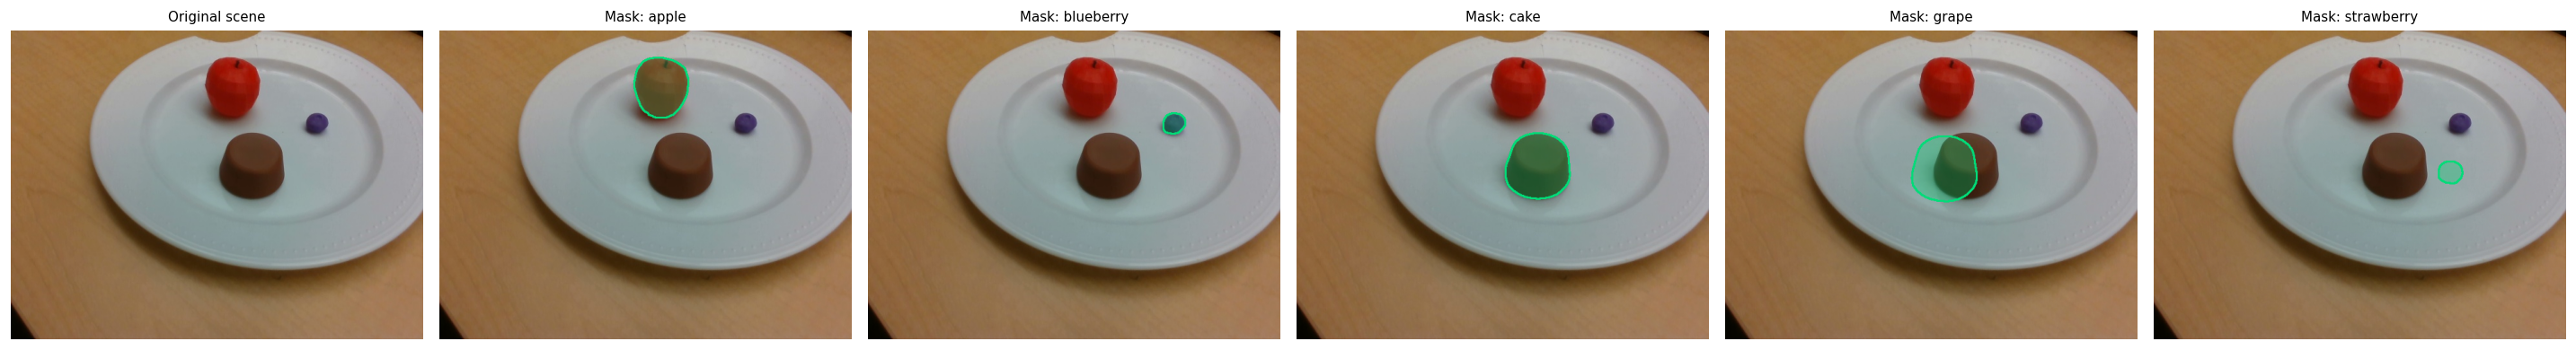
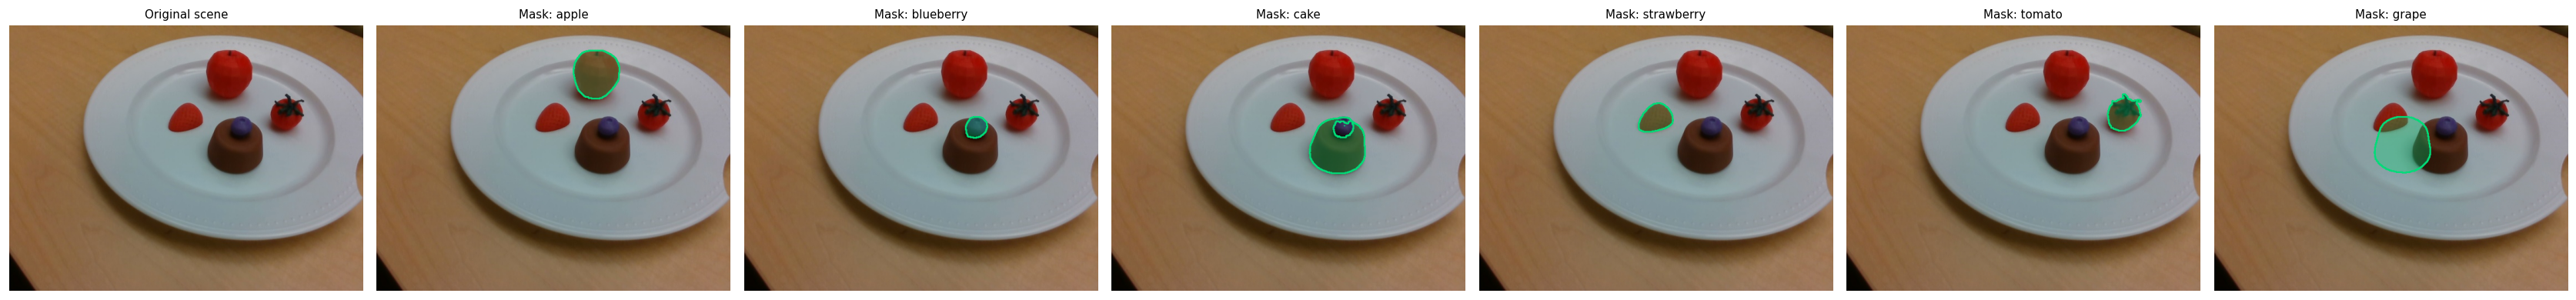
more progress

diff --git a/project-report-site/index.html b/project-report-site/index.html
@@ -139,7 +139,7 @@
 </section>
 
 <!-- ============================================================ GALLERY (visual strip) -->
-<!-- DELETE SECTION, INSTEAD INTEGRATE INTO ARCHITECTURE-->
+<!-- DELETE SECTION, INSTEAD INTEGRATE INTO ARCHITECTURE???-->
 <section id="gallery" class="section section-tint">
   <div class="section-head">
     <h2><span class="num">2</span> Captures from the Orbit</h2>
@@ -504,26 +504,61 @@
       <img src="assets/scene_poses.png" alt="3D scene plot of estimated object positions." />
       <figcaption>Reconstructed object centroids in <code>base_link</code>.</figcaption>
     </figure>
-    <figure class="figure">
-      <img src="assets/masks_debug.png" alt="Per-view mask debug visualization." />
-      <figcaption>Per-view SAM2 mask debug strip across the orbit.</figcaption>
+
+    <figure class="hero-figure carousel"aria-roledescription="carousel"aria-label="SAM2 mask debug results">
+      <div class="carousel-track">
+        <div class="carousel-slide is-active">
+          <div class="strip s1"></div>
+        </div>
+        <div class="carousel-slide">
+          <div class="strip s2"></div>
+        </div>
+        <div class="carousel-slide">
+          <div class="strip s3"></div>
+        </div>
+        <div class="carousel-slide">
+          <div class="strip s4"></div>
+        </div>
+        <div class="carousel-slide">
+          <div class="strip s5"></div>
+        </div>
+        <div class="carousel-slide">
+          <div class="strip s6"></div>
+        </div>
+      </div>
+
+      <button class="carousel-btn carousel-prev"aria-label="Previous slide">‹</button>
+      <button class="carousel-btn carousel-next"aria-label="Next slide">›</button>
+
+      <div class="carousel-dots"role="tablist"aria-label="Carousel pagination">
+        <button class="carousel-dot is-active" role="tab" data-i="0"></button>
+        <button class="carousel-dot" role="tab" data-i="1"></button>
+        <button class="carousel-dot" role="tab" data-i="2"></button>
+        <button class="carousel-dot" role="tab" data-i="3"></button>
+        <button class="carousel-dot" role="tab" data-i="4"></button>
+        <button class="carousel-dot" role="tab" data-i="5"></button>
+      </div>
+      <!--<figcaption>SAM2 masking debug strip.</figcaption> this doesn't work as intended-->
     </figure>
   </div>
+  <div class="two-col">
+    <figure class="figure">
+        <span class="ph-tag">VIDEO DEMO</span>
+        <p>End-to-end demo run (orbit → segmentation → pick sequence).</p>
+        <iframe
+          src="https://drive.google.com/file/d/1ZvJWHgZEgT7H33ZIcDSmg-mxVdF9k3Mp/preview"
+          width="100%"
+          height="420"
+          allow="autoplay">
+        </iframe>
+    </figure>
 
-  <div class="placeholder-grid">
-    <div class="placeholder">
-      <span class="ph-tag">VIDEO</span>
-      <p>End-to-end demo run (orbit → segmentation → pick sequence). To be embedded once the placement stage is locked.</p>
+    <figure class="figure">
+      <span class="ph-tag">VIDEO DEMO</span>
+      <img src="assets/" alt="Hero shot of final setup with all detected objects placed on the plate." />
+    </figure>
     </div>
-    <div class="placeholder">
-      <span class="ph-tag">PHOTO</span>
-      <p>Hero shot of the final robot setup with all detected objects placed on the plate.</p>
-    </div>
-    <div class="placeholder">
-      <span class="ph-tag">METRICS</span>
-      <p>Pick success rate per class · mean grasp time · placement error vs. plate centroid.</p>
-    </div>
-  </div>
+
 </section>
 
 <!-- ============================================================ STATUS -->
@@ -571,15 +606,42 @@
 </section>
 
 <!-- ============================================================ AI Disclosure -->
-<section id="status" class="section">
+<section id="disclosure" class="section">
   <div class="section-head">
     <h2><span class="num">6</span> AI Use Disclosure</h2>
-    <p class="section-sub">
-      Throughout the project creation process, ChatGPT, Gemini, and Claude Code were used. The usage of AI includes:
-
-
+    <p class="section-sub">Throughout the project creation process, ChatGPT, Gemini, and Claude Code were used in supporting roles for debugging, 
+      code integration, logic design, and website development.
     </p>
   </div>
+
+  <div class="section-body">
+    <h3>Bug Fixes</h3>
+    <p>Although we were able to independently resolve most issues, several sections of the codebase contained logical errors, particularly during 
+      integration of the UR7e arm. These issues often resulted in unintended robot behavior or runtime errors that prevented execution. 
+      AI was used to suggest edits, including adding, removing, and modifying lines of code to resolve these bugs efficiently.
+    </p>
+
+    <h3>Code Integration</h3>
+    <p>The project was developed in modular components (arm circling, bounding boxes, pixel masking, etc), allowing parallel development across team members. 
+      However, while each module functioned independently, integrating them into a unified system often resulted in code that would often fail after minor adjustments. 
+      AI was used to consolidate these components into a cohesive pipeline, including merging scripts and restructuring packages, to allow the packagers to work together.
+    </p>
+
+    <h3>Logic and Implementation Support</h3>
+    <p>Although the intended system behavior was well understood, AI was used to assist in translating high-level ideas into implementation details. This included 
+      generating pseudocode, as well as adjusting logic as necessary to allow the pipeline to work as intended.
+    </p>
+
+    <h3>Website Development</h3>
+    <p>The formatting, layout, and visual design of this website were assisted using AI tools. However, all content&mdash;test descriptions, images, and images&mdash;
+      were manually created and curated.
+    </p>
+
+    <h3>Note</h3>
+    <p>The Lab 5 starter code was used as the baseline for portions of this project.</p>
+
+  </div>
+</section>
 
 <!-- ============================================================ FOOTER -->
 <footer class="footer">

diff --git a/project-report-site/script.js b/project-report-site/script.js
@@ -77,53 +77,56 @@ if ('IntersectionObserver' in window && sections.length) {
 /* =========================================================
    Hero carousel
    ========================================================= */
-(function initCarousel() {
-  const track = document.getElementById('carouselTrack');
-  if (!track) return;
-  const slides = Array.from(track.querySelectorAll('.carousel-slide'));
-  const dots = Array.from(document.querySelectorAll('.carousel-dot'));
-  const prev = document.querySelector('.carousel-prev');
-  const next = document.querySelector('.carousel-next');
-  let i = 0;
-  let timer = null;
-  const reducedMotion = window.matchMedia('(prefers-reduced-motion: reduce)').matches;
+(function initCarousels() {
+  const allTracks = document.querySelectorAll('.carousel-track');
+  if (!allTracks.length) return;
 
-  const go = (n) => {
-    i = (n + slides.length) % slides.length;
-    slides.forEach((s, k) => s.classList.toggle('is-active', k === i));
-    dots.forEach((d, k) => d.classList.toggle('is-active', k === i));
-  };
+  allTracks.forEach(track => {
+    const slides = Array.from(track.querySelectorAll('.carousel-slide'));
+    const carousel = track.closest('.carousel');
+    const dots = Array.from(carousel.querySelectorAll('.carousel-dot'));
+    const prev = carousel.querySelector('.carousel-prev');
+    const next = carousel.querySelector('.carousel-next');
+    let i = 0;
+    let timer = null;
+    const reducedMotion = window.matchMedia('(prefers-reduced-motion: reduce)').matches;
 
-  const advance = () => go(i + 1);
+    const go = (n) => {
+      i = (n + slides.length) % slides.length;
+      slides.forEach((s, k) => s.classList.toggle('is-active', k === i));
+      dots.forEach((d, k) => d.classList.toggle('is-active', k === i));
+    };
 
-  const start = () => {
-    if (reducedMotion) return;
-    stop();
-    timer = setInterval(advance, 4500);
-  };
-  const stop = () => { if (timer) { clearInterval(timer); timer = null; } };
+    const advance = () => go(i + 1);
 
-  prev?.addEventListener('click', () => { go(i - 1); start(); });
-  next?.addEventListener('click', () => { go(i + 1); start(); });
-  dots.forEach((d) => d.addEventListener('click', () => {
-    go(parseInt(d.dataset.i, 10));
+    const start = () => {
+      if (reducedMotion) return;
+      stop();
+      timer = setInterval(advance, 4500);
+    };
+    const stop = () => { if (timer) { clearInterval(timer); timer = null; } };
+
+    prev?.addEventListener('click', () => { go(i - 1); start(); });
+    next?.addEventListener('click', () => { go(i + 1); start(); });
+    dots.forEach((d) => d.addEventListener('click', () => {
+      go(parseInt(d.dataset.i, 10));
+      start();
+    }));
+
+    // Pause on hover/focus
+    carousel?.addEventListener('mouseenter', stop);
+    carousel?.addEventListener('mouseleave', start);
+    carousel?.addEventListener('focusin', stop);
+    carousel?.addEventListener('focusout', start);
+
+    // Keyboard arrows while focused on carousel
+    carousel?.addEventListener('keydown', (e) => {
+      if (e.key === 'ArrowLeft')  { go(i - 1); start(); }
+      if (e.key === 'ArrowRight') { go(i + 1); start(); }
+    });
+
     start();
-  }));
-
-  // Pause on hover/focus
-  const carousel = track.closest('.carousel');
-  carousel?.addEventListener('mouseenter', stop);
-  carousel?.addEventListener('mouseleave', start);
-  carousel?.addEventListener('focusin', stop);
-  carousel?.addEventListener('focusout', start);
-
-  // Keyboard arrows while focused on carousel
-  carousel?.addEventListener('keydown', (e) => {
-    if (e.key === 'ArrowLeft')  { go(i - 1); start(); }
-    if (e.key === 'ArrowRight') { go(i + 1); start(); }
   });
-
-  start();
 })();
 
 /* =========================================================

diff --git a/project-report-site/styles.css b/project-report-site/styles.css
@@ -531,6 +531,28 @@ a:hover { color: #93a7ff; }
   line-height: 1.65;
   font-weight: 300;
 }
+.section-body {
+  max-width: var(--max);
+  margin: 0 auto;
+}
+.section-body h3 {
+  font-family: var(--display);
+  font-size: 16px;
+  font-weight: 500;
+  color: var(--ink-soft);
+  margin: 24px 0 12px;
+  letter-spacing: -0.005em;
+}
+.section-body h3:first-child {
+  margin-top: 0;
+}
+.section-body p {
+  font-size: 15px;
+  color: var(--ink-soft);
+  font-weight: 300;
+  line-height: 1.65;
+  margin: 0 0 16px;
+}
 
 /* ===========================================================
    Cards (phase / status / pose)
@@ -999,7 +1021,7 @@ a:hover { color: #93a7ff; }
   max-width: var(--max);
   margin: 22px auto 0;
   display: grid;
-  grid-template-columns: repeat(3, 1fr);
+  grid-template-columns: repeat(2, 1fr);
   gap: 14px;
 }
 .placeholder {
@@ -1092,6 +1114,27 @@ a:hover { color: #93a7ff; }
 [data-reveal][data-delay="300"] { transition-delay: 300ms; }
 [data-reveal][data-delay="400"] { transition-delay: 400ms; }
 
+/*breaking up the png image Nathan wants used*/
+.strip {
+  width: 100%;
+  aspect-ratio: 1 / 1;
+  background-image: url("assets/masks_debug.png");
+  background-repeat: no-repeat;
+  background-size: 700% auto;
+  border-radius: inherit;
+}
+
+/* seven equal slices */
+.s1 { background-position:   0% 0; }
+.s2 { background-position:  16.66% 0; }
+.s3 { background-position:  33.33% 0; }
+.s4 { background-position:  50% 0; }
+.s5 { background-position:  66.66% 0; }
+.s6 { background-position:  83.33% 0; }
+.s7 { background-position: 100% 0; }
+
+
+
 /* ===========================================================
    Responsive
    =========================================================== */
@@ -1133,3 +1176,4 @@ a:hover { color: #93a7ff; }
   .orb { animation: none; }
   [data-reveal] { opacity: 1; transform: none; }
 }
+